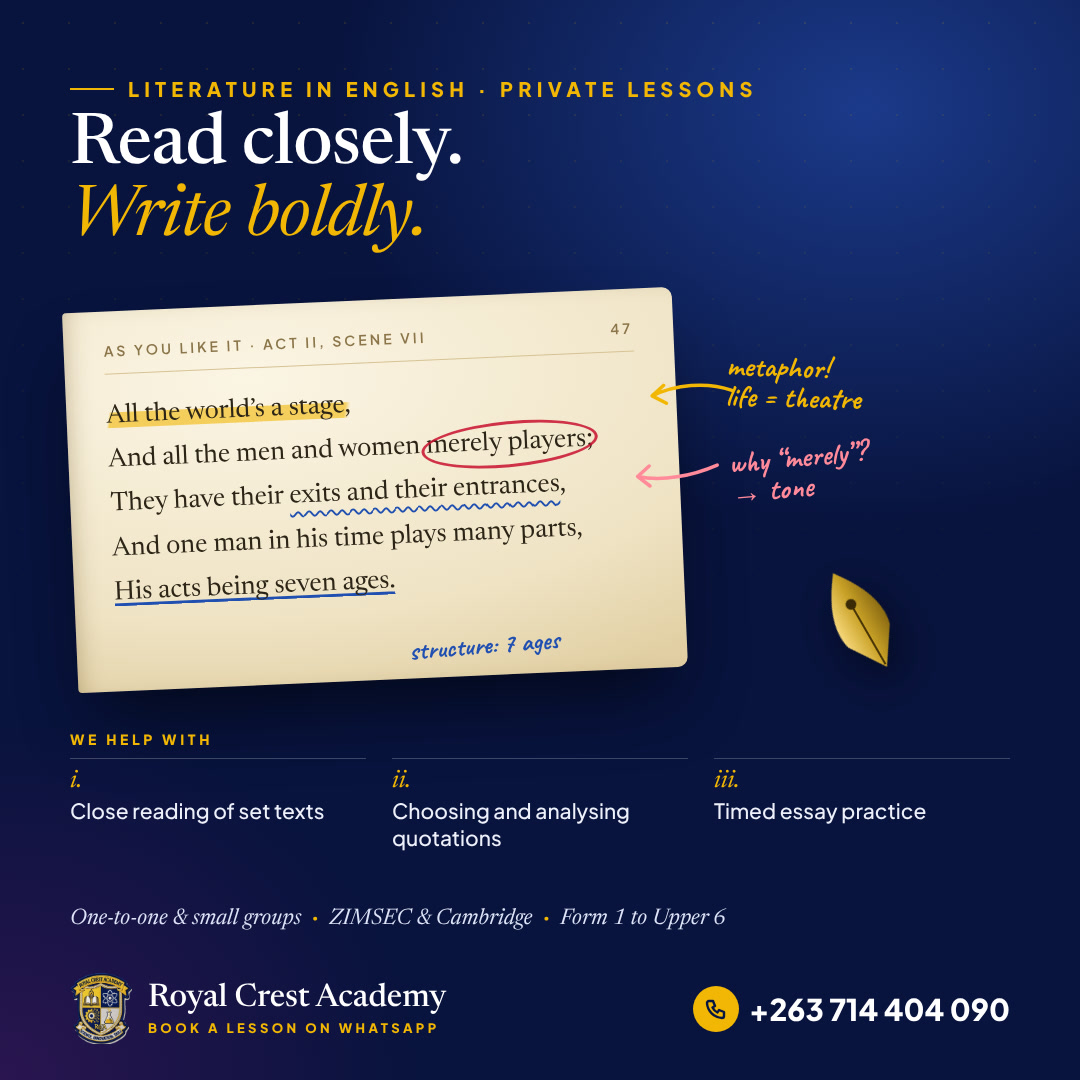
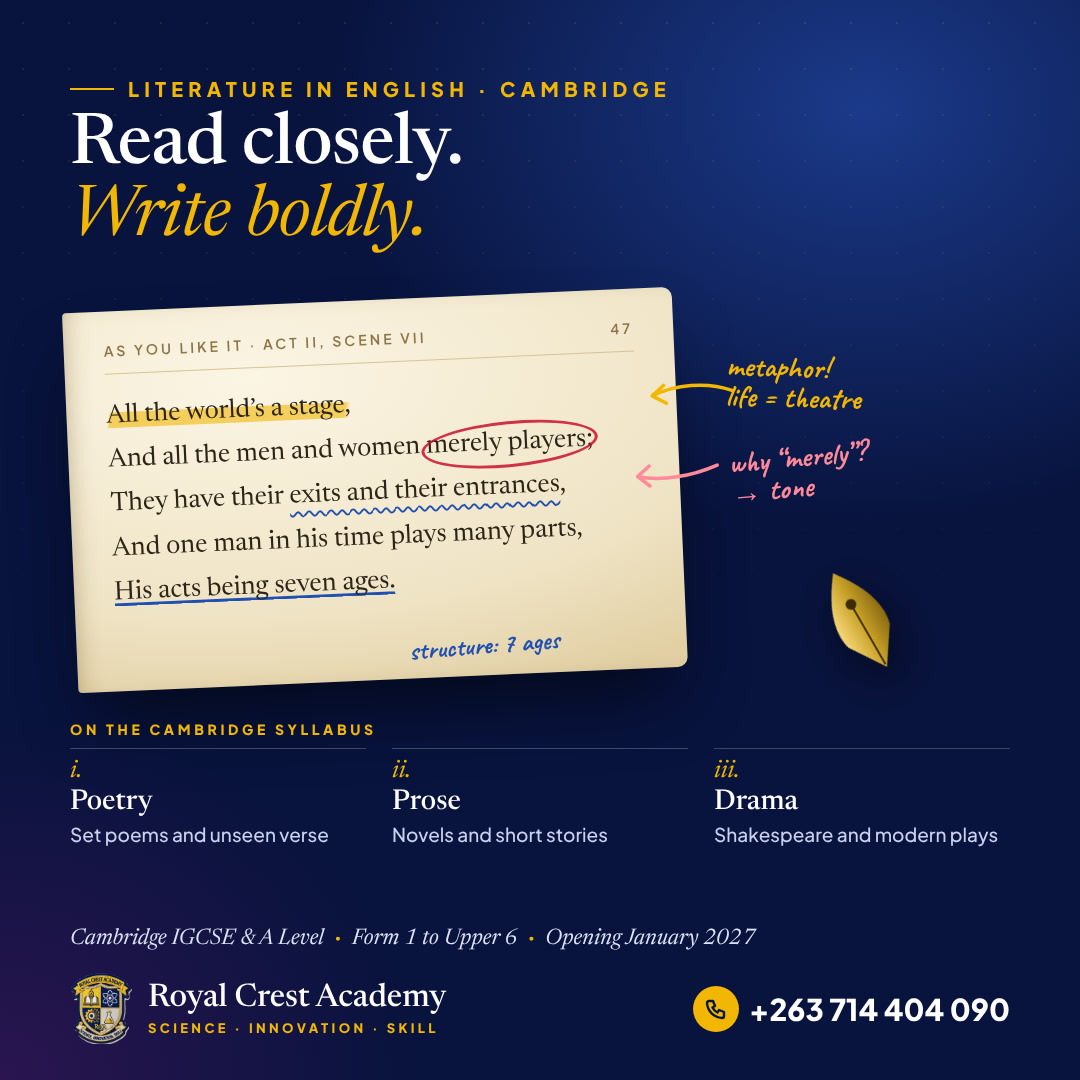
Literature in English post: school subject on the Cambridge syllabus, not private lessons
Claude-Session: https://claude.ai/code/session_01HHSSeuzikgdkEiDRBqXNst

diff --git a/studio/js/posts.js b/studio/js/posts.js
@@ -30,7 +30,7 @@
     'verse-pink': { label: "Verse of the day (pink)", formats: ['portrait', 'square'], caption: ["🌅 Morning devotion: Trusting God for the vision", "", "📖 “Commit thy works unto the LORD, and thy thoughts shall be established.” Proverbs 16:3", "", "Heavenly Father, we commit Royal Crest Academy into Your hands. Guide every decision, provide every resource and unite us in purpose. In Jesus’ name, Amen. 🙏", "", "Our students shall rise, flourish and fulfil their God-given purpose.", "", "Have a blessed Sunday, Royal Crest family!"], plain: true },
     'verse-exams': { label: "Verse of the day (exams)", formats: ['portrait', 'square'], caption: ["🌅 Verse of the day: strength for the exam room", "", "📖 “I can do all things through Christ which strengtheneth me.” Philippians 4:13", "", "Heavenly Father, as learners across Zimbabwe sit their examinations, give them clear minds, calm hearts and good recall. Bless every pen and every page. In Jesus’ name, Amen. 🙏", "", "To every learner writing this season: you are prepared, and you are not alone. ✍", "", "Have a blessed week, Royal Crest family!"], plain: true },
     'verse-week': { label: "Verse of the day (amber)", formats: ['portrait', 'square'], caption: ["🌅 Verse of the day: new mercies for a new week", "", "📖 “It is of the LORD’s mercies that we are not consumed, because his compassions fail not. They are new every morning: great is thy faithfulness.” Lamentations 3:22–23", "", "Heavenly Father, thank You for mercies that are new every morning. Guide every Royal Crest family this week, keep our homes in peace and fill our children with joy. In Jesus’ name, Amen. 🙏", "", "Every sunrise is a fresh start. Walk into this week with a grateful heart. ☀", "", "Have a blessed week, Royal Crest family!"], plain: true },
-    'lit-english': { label: "Literature in English tutoring", formats: ['portrait', 'square'], caption: ["“All the world’s a stage.” Shakespeare wrote it in 1599, and examiners still ask why. 📖", "", "Literature in English private lessons, Form 1 to Upper 6. One-to-one and small groups, ZIMSEC and Cambridge aligned.", "We help with close reading of set texts, choosing and analysing quotations, and timed essay practice. ✍", "", "Book a lesson on WhatsApp."] },
+    'lit-english': { label: "Literature in English (Cambridge)", formats: ['portrait', 'square'], caption: ["“All the world’s a stage.” Shakespeare wrote it in 1599, and our learners will still be asking why. 📖", "", "Literature in English at Royal Crest Academy follows the Cambridge syllabus: poetry, prose and drama, from Form 1 to Upper 6.", "Close reading, sharp essays and a love of great books. ✍"] },
     'zh-pictures': { label: "Mandarin: picture characters", formats: ['portrait', 'square'], caption: ["Chinese characters that are pictures 🖌", "", "人 rén person • 山 shān mountain • 日 rì sun • 木 mù tree", "The oldest characters were carved on bones and shells more than 3,000 years ago. Learn to read them with us at Mandarin Connect."] },
     'zh-count': { formats: ['portrait', 'square'], label: "Mandarin: count to ten", caption: ["Count to ten in Mandarin 🏮", "", "yī, èr, sān, sì, wǔ, liù, qī, bā, jiǔ, shí", "Fun fact: 八 (bā) is a lucky number in China because it sounds like the word for wealth."] },
     'zh-great-wall': { formats: ['portrait', 'square'], label: "Mandarin: the Great Wall", caption: ["长城 Chángchéng: the Great Wall 🏯", "", "More than 21,000 km of history. At Mandarin Connect our learners explore the language and the culture behind it."] },
@@ -398,7 +398,7 @@
     <div class="fl-photo vd-arch">${sunrise('amber')}</div></div>
   <div class="fl-foot"><div class="fl-cta">Great is Thy faithfulness, this morning and every morning.</div><div class="fl-contact">Have a blessed week<div class="c-web">Royal Crest family</div></div></div></div>`,
     'lit-english': (crest, phone, P, full) => `<div class="ink"></div><div class="dust"></div>
-  <div class="abs kick" style="color:var(--gold2)">Literature in English · private lessons</div>
+  <div class="abs kick" style="color:var(--gold2)">Literature in English · Cambridge</div>
   <div class="abs h">Read closely.<br><em>Write boldly.</em></div>
   <div class="abs page"><div class="pg-head"><span>As You Like It · Act II, Scene vii</span><span>47</span></div>
     <p><span class="hl">All the world’s a stage,</span><br>And all the men and women <span class="ring">merely players</span>;<br>They have their <span class="wave">exits and their entrances</span>,<br>And one man in his time plays many parts,<br><span class="seven">His acts being seven ages.</span></p>
@@ -407,10 +407,10 @@
     <svg class="arrow a2" viewBox="0 0 90 40"><path d="M86 14 C60 24 30 28 6 22 M18 12 L6 22 L18 32"/></svg></div>
   <svg class="abs nib" viewBox="0 0 200 200"><defs><linearGradient id="nibG" x1="0" x2="1"><stop offset="0" stop-color="#f6d77a"/><stop offset=".5" stop-color="#c9a227"/><stop offset="1" stop-color="#8a6a12"/></linearGradient></defs>
     <path d="M100 10 C130 50 150 90 140 130 L100 190 L60 130 C50 90 70 50 100 10 Z" fill="url(#nibG)"/><path d="M100 70 V185" stroke="#3a2a05" stroke-width="3"/><circle cx="100" cy="70" r="9" fill="#3a2a05"/></svg>
-  <div class="abs helps"><div class="lab">We help with</div>
-    <div class="it"><i>i.</i>Close reading of set texts</div><div class="it"><i>ii.</i>Choosing and analysing quotations</div><div class="it"><i>iii.</i>Timed essay practice</div></div>
-  <div class="abs meta">One-to-one &amp; small groups <b>·</b> ZIMSEC &amp; Cambridge <b>·</b> Form 1 to Upper 6</div>
-  <div class="brand light"><div class="b"><img src="${crest}" alt=""><div><b>Royal Crest Academy</b><small>BOOK A LESSON ON WHATSAPP</small></div></div><div class="ph"><i>${PHONE_ICON}</i>${full}</div></div>`,
+  <div class="abs helps"><div class="lab">On the Cambridge syllabus</div>
+    <div class="it"><i>i.</i><b>Poetry</b>Set poems and unseen verse</div><div class="it"><i>ii.</i><b>Prose</b>Novels and short stories</div><div class="it"><i>iii.</i><b>Drama</b>Shakespeare and modern plays</div></div>
+  <div class="abs meta">Cambridge IGCSE &amp; A Level <b>·</b> Form 1 to Upper 6 <b>·</b> Opening January 2027</div>
+  <div class="brand light"><div class="b"><img src="${crest}" alt=""><div><b>Royal Crest Academy</b><small>SCIENCE · INNOVATION · SKILL</small></div></div><div class="ph"><i>${PHONE_ICON}</i>${full}</div></div>`,
     'zh-pictures': (crest, phone, P, full) => `<div class="paper"></div>
   <div class="abs kick" style="left:70px;top:70px;color:var(--red)">Mandarin Connect · characters</div>
   <div class="abs h">Characters that<br>are <em>pictures.</em></div>

diff --git a/studio/css/posts.css b/studio/css/posts.css
@@ -559,3 +559,10 @@
 .flyer.ps-lit-english.f-square .helps .it i { font-size: 24px; }
 .flyer.ps-lit-english.f-square .meta { top: 905px; font-size: 22px; }
 .flyer.ps-lit-english .seven { box-shadow: inset 0 -3px 0 #1f4fb0; }
+.flyer.ps-lit-english .helps .it b { display: block; margin-bottom: 4px; font: 500 34px/1.1 PsSerif, serif; color: #fff; }
+.flyer.ps-lit-english .helps .it { color: #c9d2ee; }
+.flyer.ps-lit-english.f-square .helps .it b { font-size: 28px; }
+.flyer.ps-lit-english .helps { top: 915px; } .flyer.ps-lit-english .helps .it { font-size: 22px; }
+.flyer.ps-lit-english .meta { top: 1168px; font-size: 28px; }
+.flyer.ps-lit-english.f-square .helps { top: 720px; } .flyer.ps-lit-english.f-square .helps .it { font-size: 19px; }
+.flyer.ps-lit-english.f-square .meta { top: 925px; }

diff --git a/studio/social-extra/README.md b/studio/social-extra/README.md
@@ -29,4 +29,4 @@ The Open Day date isn't set anywhere yet; add it to the caption when it is fixed
 | `verse-of-the-day-2026-10-25-pink-{portrait,square}.jpg` | Verse of the day (pink), Sunday 25 Oct 2026: "Trusting God for the vision", Proverbs 16:3 |
 | `verse-of-the-day-2026-10-26-exams-{portrait,square}.jpg` | Verse of the day (exams, teal), Monday 26 Oct 2026: "Strength for the exam room", Philippians 4:13 |
 | `verse-of-the-day-2026-10-26-amber-{portrait,square}.jpg` | Verse of the day (amber), Monday 26 Oct 2026: "New mercies for a new week", Lamentations 3:22–23 |
-| `literature-in-english-{portrait,square}.jpg` | Literature in English private lessons: annotated Shakespeare page (As You Like It II.vii) |
+| `literature-in-english-{portrait,square}.jpg` | Literature in English (Cambridge syllabus: poetry, prose, drama): annotated Shakespeare page (As You Like It II.vii) |
